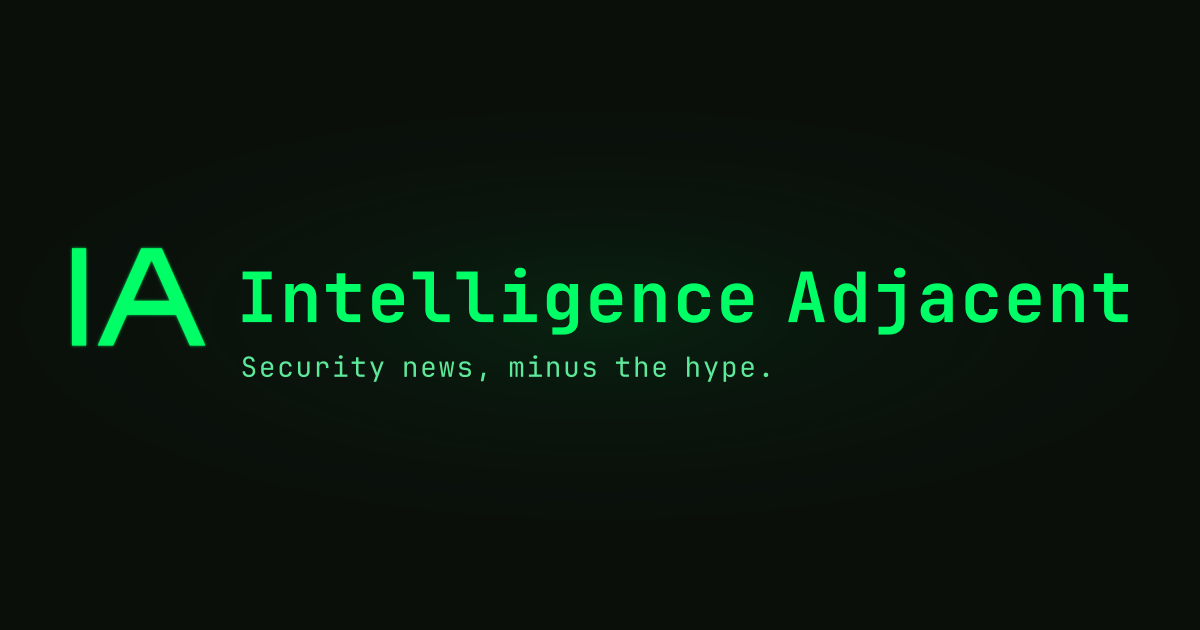
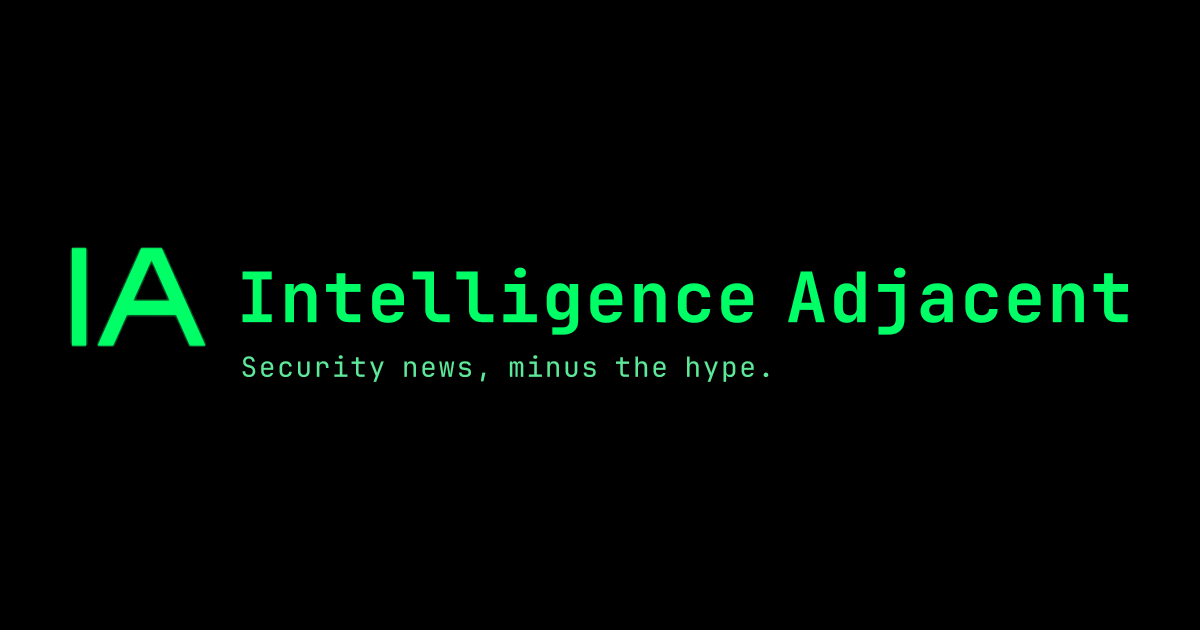
Switch the site background from dark green to black.
Page, cards, borders, icons, and the OG image use neutral black and gray. The green logo, links, buttons, and accents stay #00FF66.

Changed region(s): [[0.3392, 0.3921, 0.6783, 0.6333]]

diff --git a/src/styles/global.css b/src/styles/global.css
@@ -1,14 +1,14 @@
 :root {
-  --bg: #0a0f0a;
-  --bg-raised: #121a13;
-  --bg-code: #0e1610;
-  --line: #1e3326;
-  --text: #e7f0e8;
-  --muted: #a3b5a8;
+  --bg: #000000;
+  --bg-raised: #111111;
+  --bg-code: #0a0a0a;
+  --line: #1f1f1f;
+  --text: #e8e8e8;
+  --muted: #a3a3a3;
   --accent: #00ff66;
   --accent-strong: #00ff66;
-  --accent-ink: #0a0f0a;
-  --accent-dim: #0e2a18;
+  --accent-ink: #000000;
+  --accent-dim: #1a1a1a;
   --warn: #ffcc66;
   --warn-dim: #3a2e12;
   --sans: system-ui, -apple-system, "Segoe UI", Roboto, "Helvetica Neue", Arial, sans-serif;
@@ -56,7 +56,7 @@ body::before {
 }
 
 :focus-visible {
-  outline: 2px solid #f4fff7;
+  outline: 2px solid #ffffff;
   outline-offset: 3px;
 }
 
@@ -329,7 +329,7 @@ h1 {
 }
 
 .card:has(a:focus-visible) {
-  outline: 2px solid #f4fff7;
+  outline: 2px solid #ffffff;
   outline-offset: 3px;
 }
 
